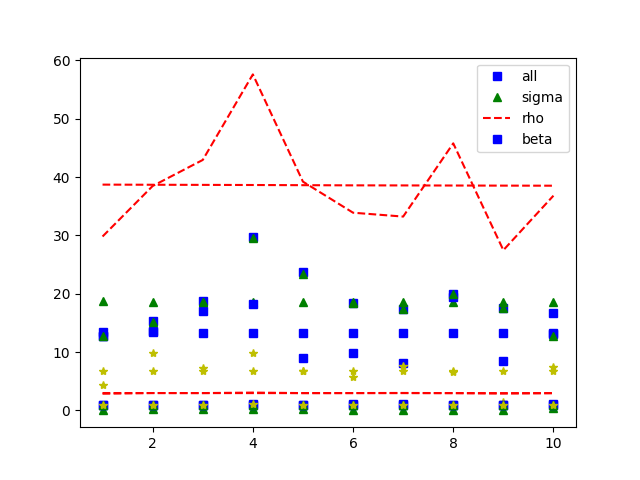
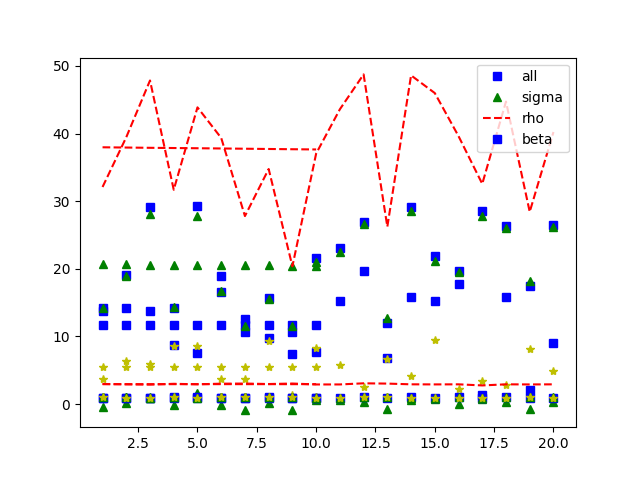
test

diff --git a/lorenz_nn.py b/lorenz_nn.py
@@ -10,7 +10,7 @@ from torch.autograd import Variable
 my_path = '/home/peiguo/Lorenz_MLP/training_fig'
 my_results_path_rela = '/home/peiguo/Lorenz_MLP/results/rela_error' 
 my_results_path_abso = '/home/peiguo/Lorenz_MLP/results/abso_error' 
-total_samples = 10
+total_samples = 20
 
 def dataset(total_samples):
     def f(state,t):
